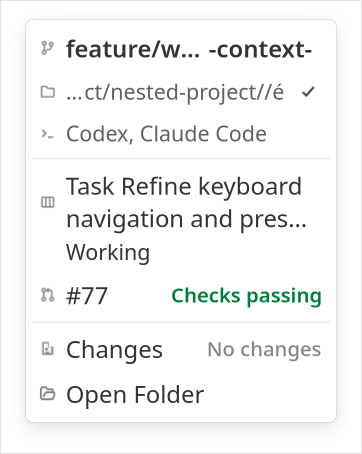
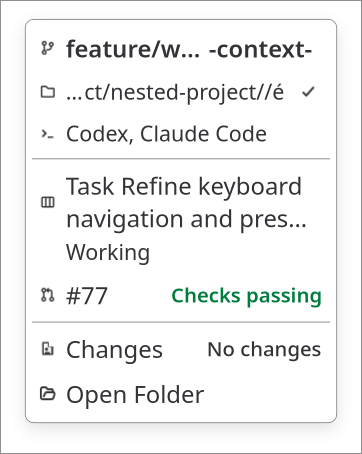
gui: retain high contrast in Details stress evidence

diff --git a/crates/signaltty-gui/src/app_tests.rs b/crates/signaltty-gui/src/app_tests.rs
@@ -6329,11 +6329,11 @@ fn breadcrumb_opens_the_workspace_details_card() {
         settings.set_gtk_font_name(Some(font));
         gtk4::Widget::set_default_direction(direction);
         app.window.set_direction(direction);
+        adw::StyleManager::default().set_color_scheme(scheme);
         app.window.remove_css_class("high-contrast");
         if contrast {
             app.window.add_css_class("high-contrast");
         }
-        adw::StyleManager::default().set_color_scheme(scheme);
         app.window.set_default_size(360, 680);
         wait_ui(|| app.window.width() <= 360);
         app.crumb_button.popup();
@@ -6348,6 +6348,7 @@ fn breadcrumb_opens_the_workspace_details_card() {
             .unwrap();
         wait_ui(|| has_label(&card, "No changes"));
         capture_workflow(&app.details.popover, &format!("details-{name}"));
+        assert_eq!(app.window.has_css_class("high-contrast"), contrast);
         let content = try_descendant(&card, "details-card").unwrap();
         assert!(
             content.width() <= app.window.width(),

diff --git a/docs/qa/details-reading-2026-10-15/README.md b/docs/qa/details-reading-2026-10-15/README.md
@@ -17,4 +17,6 @@ The native test passed with exact long-path clipboard bytes, original-path copy,
 
 Grok 4.7 High independently audited the original captures and source. Adopted Details hierarchy and retained the centered shell identity. State appears below the title to avoid horizontal competition. Its separate suggestion to ellipsize approval choices was rejected because permission scope must remain readable without hover. Pane tools were already correct and remain untouched.
 
-The isolated Xvfb run exercises native GTK, system fonts and class-based high contrast. Manual screen-reader order/names, on-screen keyboard, IME, external URI/folder launch and a real desktop high-contrast preference were not run. The full verification report and final reviews are recorded with the PR.
+The isolated Xvfb run exercises native GTK, system fonts and class-based high contrast. Manual screen-reader order/names, on-screen keyboard, IME, external URI/folder launch and a real desktop high-contrast preference were not run. The full verification report is recorded with the PR. Independent reviews are in `reviews.md`.
+
+The first Standards review found that changing color scheme after applying the test high-contrast class cleared that class for the Sans 18 capture. The test now changes scheme first and asserts the class after each capture. The regenerated Sans 18 and DejaVu 18 images both retain high contrast. This is a test/evidence correction; the production layout is unchanged.
